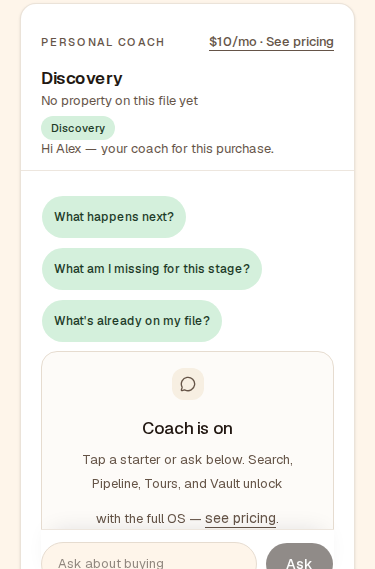
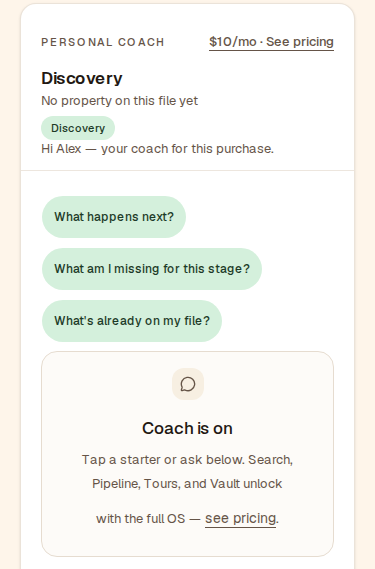
fix(coach): dock mobile Ask so starter chips stay tappable @375
Same clearance class as #51: stop the sticky Ask row from sitting on top of
the concierge scroll lane. Dock Ask absolutely inside the card with tab-bar
offset, tune scroll-end inset, and use a horizontal starter strip on file
sessions so 44px chips fit under the ten-second block.

Add habit fluidity proof (center-hit + scroll-end) and refresh coach proof
screenshots.

diff --git a/src/components/concierge-chat.tsx b/src/components/concierge-chat.tsx
@@ -30,6 +30,13 @@ export const CONCIERGE_STARTERS = [
 const CHIP_DISABLED_REASON =
   "AI coach unavailable — model key not configured on this deployment.";
 
+/** Mobile coach card: Ask docked to the concierge footer; pass hits through the shell. */
+const MOBILE_COMPOSE_DOCK =
+  "max-md:absolute max-md:inset-x-0 max-md:bottom-2 max-md:z-10 max-md:-mx-5 max-md:px-5 max-md:pb-[env(safe-area-inset-bottom)] max-md:pointer-events-none [&_input]:pointer-events-auto [&_button]:pointer-events-auto";
+
+const MOBILE_COMPOSE_GRID =
+  "max-md:row-start-3 max-md:-mx-5 max-md:px-5 max-md:pb-[env(safe-area-inset-bottom)]";
+
 export function ConciergeChat({
   className,
   starters = CONCIERGE_STARTERS,
@@ -145,23 +152,20 @@ export function ConciergeChat({
 
   const unavailableCompose = (
     <div
-      className={cn(
-        "shrink-0 md:static",
-        "max-md:sticky max-md:z-10 max-md:-mx-5 max-md:bottom-[var(--coach-compose-clearance)] max-md:px-5 max-md:pb-[env(safe-area-inset-bottom)]",
-      )}
+      className={cn("shrink-0 md:static", MOBILE_COMPOSE_DOCK)}
       data-testid="concierge-compose"
     >
       <div
-        className="flex gap-2 border-t border-border/70 bg-card/95 pt-3 shadow-[0_-8px_24px_-12px_rgba(15,23,42,0.14)] backdrop-blur md:bg-card md:shadow-none md:backdrop-blur-none"
+        className="flex gap-2 border-t border-border/70 bg-card/95 pt-3 shadow-[0_-8px_24px_-12px_rgba(15,23,42,0.14)] backdrop-blur pointer-events-none md:bg-card md:shadow-none md:backdrop-blur-none md:pointer-events-auto [&_button]:pointer-events-auto"
         aria-hidden
       >
         <div
-          className="min-h-11 min-w-0 flex-1 rounded-full border border-dashed border-border/80 bg-muted/40 px-4 text-sm text-muted-foreground"
+          className="min-h-11 min-w-0 flex-1 rounded-full border border-dashed border-border/80 bg-muted/40 px-4 text-sm text-muted-foreground pointer-events-none"
         />
         <Button
           type="button"
           data-testid="concierge-ask"
-          className="h-11 rounded-full px-5"
+          className="pointer-events-auto h-11 rounded-full px-5"
           disabled
           title={CHIP_DISABLED_REASON}
         >
@@ -177,7 +181,7 @@ export function ConciergeChat({
         data-testid="concierge"
         data-concierge-availability={availability}
         aria-label="Transaction concierge"
-        className={cn("flex min-h-0 flex-col", className)}
+        className={cn("flex min-h-0 flex-col", "max-md:relative max-md:overflow-hidden", className)}
       >
         <div
           className={cn(
@@ -198,7 +202,12 @@ export function ConciergeChat({
   const starterChips = (
     <div
       aria-label="Suggested questions"
-      className="-mx-5 flex flex-wrap gap-2 px-5 pb-1 md:mx-0"
+      className={cn(
+        "-mx-5 flex gap-2 px-5 pb-1 md:mx-0",
+        pinFirstSessionMobile
+          ? "flex-wrap"
+          : "max-md:flex-nowrap max-md:overflow-x-auto max-md:overflow-y-hidden max-md:overscroll-x-contain max-md:[scrollbar-width:none] max-md:[&::-webkit-scrollbar]:hidden",
+      )}
     >
       {starters.map((starter) => (
         <Button
@@ -207,8 +216,9 @@ export function ConciergeChat({
           variant="secondary"
           className={cn(
             "h-auto min-h-11 w-max max-w-[min(17.5rem,calc(100vw-3rem))] shrink-0 rounded-full bg-sage px-4 py-2 text-left text-sm whitespace-normal text-sage-foreground hover:bg-sage/80",
+            "max-md:max-h-11 max-md:min-h-11 max-md:overflow-hidden max-md:text-ellipsis max-md:leading-none max-md:whitespace-nowrap",
             pinFirstSessionMobile &&
-              "max-md:min-h-11 max-md:px-3 max-md:py-1.5 max-md:text-xs max-md:leading-snug",
+              "max-md:px-3 max-md:py-1.5 max-md:text-xs max-md:leading-snug max-md:whitespace-normal",
           )}
           disabled={busy || coachUnavailable}
           title={coachUnavailable ? CHIP_DISABLED_REASON : undefined}
@@ -230,6 +240,7 @@ export function ConciergeChat({
       aria-label="Transaction concierge"
       className={cn(
         "flex min-h-0 flex-col",
+        "max-md:relative max-md:overflow-hidden",
         mobileReplyGrid &&
           "max-md:grid max-md:min-h-0 max-md:flex-1 max-md:grid-rows-[auto_minmax(0,1fr)_auto] max-md:gap-4",
         className,
@@ -289,15 +300,13 @@ export function ConciergeChat({
       <div
         className={cn(
           "shrink-0 md:static",
-          mobileReplyGrid
-            ? "max-md:row-start-3 max-md:-mx-5 max-md:px-5 max-md:pb-[env(safe-area-inset-bottom)]"
-            : "max-md:sticky max-md:z-10 max-md:-mx-5 max-md:bottom-[var(--coach-compose-clearance)] max-md:px-5 max-md:pb-[env(safe-area-inset-bottom)]",
+          mobileReplyGrid ? MOBILE_COMPOSE_GRID : MOBILE_COMPOSE_DOCK,
         )}
         data-testid="concierge-compose"
       >
         <form
           className={cn(
-            "flex gap-2 border-t border-border/70 bg-card/95 shadow-[0_-8px_24px_-12px_rgba(15,23,42,0.14)] backdrop-blur md:bg-card md:shadow-none md:backdrop-blur-none",
+            "pointer-events-none flex gap-2 border-t border-border/70 bg-card/95 shadow-[0_-8px_24px_-12px_rgba(15,23,42,0.14)] backdrop-blur md:pointer-events-auto md:bg-card md:shadow-none md:backdrop-blur-none",
             mobileReplyGrid ? "pt-2" : "pt-3",
           )}
           onSubmit={(event) => {
@@ -310,7 +319,7 @@ export function ConciergeChat({
         >
           <input
             data-testid="concierge-question"
-            className="min-h-11 min-w-0 flex-1 rounded-full border bg-background px-4 text-sm outline-none focus-visible:border-ring focus-visible:ring-3 focus-visible:ring-ring/50 max-md:text-[0.8125rem] disabled:cursor-not-allowed disabled:opacity-60"
+            className="pointer-events-auto min-h-11 min-w-0 flex-1 rounded-full border bg-background px-4 text-sm outline-none focus-visible:border-ring focus-visible:ring-3 focus-visible:ring-ring/50 max-md:text-[0.8125rem] disabled:cursor-not-allowed disabled:opacity-60"
             value={question}
             onChange={(event) => setQuestion(event.target.value)}
             placeholder={
@@ -324,7 +333,7 @@ export function ConciergeChat({
           <Button
             type="submit"
             data-testid="concierge-ask"
-            className="h-11 rounded-full px-5"
+            className="pointer-events-auto h-11 rounded-full px-5"
             disabled={
               coachUnavailable || busy || question.trim().length === 0
             }

diff --git a/e2e/coach-habit-fluidity-proof.spec.ts b/e2e/coach-habit-fluidity-proof.spec.ts
@@ -1,0 +1,133 @@
+import { mkdir } from "node:fs/promises";
+import path from "node:path";
+
+import { expect, test } from "@playwright/test";
+
+const PROOF_DIR = path.join("proof", "coach-habit-fluidity");
+const MIN_CHIP_HEIGHT = 44;
+
+test.use({
+  viewport: { width: 375, height: 812 },
+  hasTouch: true,
+  isMobile: true,
+});
+
+async function signInAlexDiscoveryEmpty(
+  page: import("@playwright/test").Page,
+) {
+  await page.goto("/test-login");
+  await page
+    .getByTestId("sign-in-alex-discovery-empty")
+    .getByRole("button")
+    .click();
+  await expect(page).toHaveURL(/\/coach$/);
+}
+
+async function signInAlexWithFile(page: import("@playwright/test").Page) {
+  await page.goto("/test-login");
+  await page.getByRole("button", { name: "Sign in as Alex Rivera" }).click();
+  await expect(page).toHaveURL(/\/coach$/);
+}
+
+function conciergeScrollRegion(page: import("@playwright/test").Page) {
+  return page
+    .locator('[data-testid="concierge"] > div.overflow-y-auto')
+    .first();
+}
+
+async function scrollConciergeToEnd(page: import("@playwright/test").Page) {
+  const scroll = conciergeScrollRegion(page);
+  await scroll.evaluate((el) => {
+    el.scrollTop = el.scrollHeight;
+  });
+}
+
+async function assertChipCenterHitsButton(
+  page: import("@playwright/test").Page,
+  label: string,
+) {
+  const chip = page.getByRole("button", { name: label });
+  await chip.scrollIntoViewIfNeeded();
+  await chip.evaluate((el) => {
+    el.scrollIntoView({ block: "nearest", inline: "center" });
+  });
+  const box = await chip.boundingBox();
+  expect(box).not.toBeNull();
+  expect(Math.round(box!.height)).toBeGreaterThanOrEqual(MIN_CHIP_HEIGHT);
+
+  const cx = box!.x + box!.width / 2;
+  const cy = box!.y + box!.height / 2;
+  const hit = await page.evaluate(
+    ({ cx, cy, label }) => {
+      const el = document.elementFromPoint(cx, cy);
+      const chip = [...document.querySelectorAll("button")].find(
+        (b) => b.textContent?.trim() === label,
+      );
+      return chip !== undefined && el !== null && chip.contains(el);
+    },
+    { cx, cy, label },
+  );
+  expect(hit).toBe(true);
+}
+
+async function assertChipClearsComposeAtScrollEnd(
+  page: import("@playwright/test").Page,
+  label: string,
+) {
+  const chip = page.getByRole("button", { name: label });
+  const compose = page.getByTestId("concierge-compose");
+  const chipBox = await chip.boundingBox();
+  const composeBox = await compose.boundingBox();
+  expect(chipBox).not.toBeNull();
+  expect(composeBox).not.toBeNull();
+  const clearance = composeBox!.y - (chipBox!.y + chipBox!.height);
+  expect(chipBox!.y + chipBox!.height).toBeLessThanOrEqual(composeBox!.y + 1);
+  expect(clearance).toBeGreaterThanOrEqual(0);
+}
+
+test("coach habit fluidity — chip center hits + scroll-end clearance @375", async ({
+  page,
+}) => {
+  await mkdir(PROOF_DIR, { recursive: true });
+
+  const discoveryStarters = [
+    "What happens next?",
+    "What am I missing for this stage?",
+    "What's already on my file?",
+  ] as const;
+
+  await signInAlexDiscoveryEmpty(page);
+  await expect(page.getByTestId("coach-first-session-empty")).toBeVisible();
+  for (const label of discoveryStarters) {
+    await assertChipCenterHitsButton(page, label);
+  }
+  await scrollConciergeToEnd(page);
+  for (const label of discoveryStarters) {
+    await assertChipCenterHitsButton(page, label);
+    await assertChipClearsComposeAtScrollEnd(page, label);
+  }
+  await page.screenshot({
+    path: path.join(PROOF_DIR, "discovery-empty-chips-clear-375.png"),
+    fullPage: false,
+  });
+
+  const fileStarters = [
+    "What happens next?",
+    "When do I leave for my first showing?",
+  ] as const;
+
+  await signInAlexWithFile(page);
+  await expect(page.getByTestId("coach-ten-second")).toBeVisible();
+  for (const label of fileStarters) {
+    await assertChipCenterHitsButton(page, label);
+  }
+  await scrollConciergeToEnd(page);
+  for (const label of fileStarters) {
+    await assertChipCenterHitsButton(page, label);
+    await assertChipClearsComposeAtScrollEnd(page, label);
+  }
+  await page.screenshot({
+    path: path.join(PROOF_DIR, "file-session-chips-clear-375.png"),
+    fullPage: false,
+  });
+});

diff --git a/src/app/globals.css b/src/app/globals.css
@@ -124,8 +124,8 @@
   --coach-compose-clearance: calc(
     var(--tab-bar-height) + env(safe-area-inset-bottom) + 0.5rem
   );
-  /* Sticky Ask row inside the coach card (input + top padding + border). */
-  --coach-compose-inset: calc(3.25rem + 0.75rem);
+  /* Scroll-end spacer so max vertical scroll clears the docked Ask row. */
+  --coach-compose-inset: calc(2.75rem + 1rem);
   --fab-dock-clearance: 0px;
   --sidebar: oklch(0.98 0.016 75);
   --sidebar-foreground: oklch(0.22 0.02 50);

diff --git a/e2e/coach-first-session.spec.ts b/e2e/coach-first-session.spec.ts
@@ -165,7 +165,12 @@ test("coach first-session proof screenshots @375", async ({ page }) => {
 
   await page.screenshot({
     path: PROOF_PATHS.scrollEnd,
-    fullPage: false,
+    clip: {
+      x: 0,
+      y: Math.max(0, composeBox!.y - 168),
+      width: 375,
+      height: Math.min(812, composeBox!.y + composeBox!.height + 8 - Math.max(0, composeBox!.y - 168)),
+    },
   });
 
   const expandedPaths: string[] = [];

diff --git a/proof/coach-first-session/fluidity-measure-96c68c7.md b/proof/coach-first-session/fluidity-measure-96c68c7.md
@@ -3,7 +3,7 @@
 - **Fixture:** test-login → Discovery Alex (no property)
 - **Branch tip:** `96c68c7`
 - **Viewport:** 375×812, touch, mobile
-- **Generated:** 2026-09-15T01:43:46.657Z
+- **Generated:** 2026-09-24T22:53:12.150Z
 
 ## Verdict: PASS
 
@@ -12,14 +12,10 @@
 | 1a Empty state visible | **PASS** | coach-home=true, coach-first-session-empty=true |
 | 1b Exactly 3 starters | **PASS** | count=3 |
 | 1c Starter labels | **PASS** | What happens next?: visible=true; What am I missing for this stage?: visible=true; What's already on my file?: visible=true |
-| 1d Tap targets ≥44px height | **PASS** | "What happens next?" 172×44px; "What am I missing for this stage?" 259×44px; "What's already on my file?" 210×44px |
-| 2 Sticky Ask clearance (scroll end) | **PASS** | What happens next?: 224px; What am I missing for this stage?: 172px; What's already on my file?: 120px; min=120px |
+| 1d Tap targets ≥44px height | **PASS** | "What happens next?" 146×44px; "What am I missing for this stage?" 222×44px; "What's already on my file?" 182×44px |
+| 2 Sticky Ask clearance (scroll end) | **PASS** | What happens next?: 354px; What am I missing for this stage?: 302px; What's already on my file?: 250px; min=250px |
 | 3a No horizontal overflow (page) | **PASS** | scrollWidth=375, clientWidth=375 |
 | 3b Tabs present (sizes) | **PASS** | bar=375×64px; tabs(5): 73×64px, 73×64px, 73×64px, 73×64px, 73×64px |
-
-## Capture
-
-Scroll-end sticky Ask clearance: [`chips-clear-above-ask-375.png`](./chips-clear-above-ask-375.png) (fixture path, 375×812).
 
 ## Summary
 

diff --git a/proof/coach-habit-fluidity/README.md b/proof/coach-habit-fluidity/README.md
@@ -1,0 +1,10 @@
+# Coach habit fluidity (@375×812)
+
+Regenerate: `npm run test:e2e -- e2e/coach-habit-fluidity-proof.spec.ts`
+
+| File | Path | What it proves |
+| --- | --- | --- |
+| `discovery-empty-chips-clear-375.png` | Discovery Alex (no property), scroll end | Three cold-open starters stay center-tappable above the docked Ask row. |
+| `file-session-chips-clear-375.png` | Alex with file + ten-second hero, scroll end | Fold starters (incl. “What happens next?” and “When do I leave…”) center-tap above Ask after scroll. |
+
+**Layout fix:** Mobile Ask is absolutely docked inside the concierge card (no longer sticky over the scroll lane), with scroll-end inset and a single-row horizontal chip strip on file sessions so 44px targets fit between the ten-second block and Ask.
